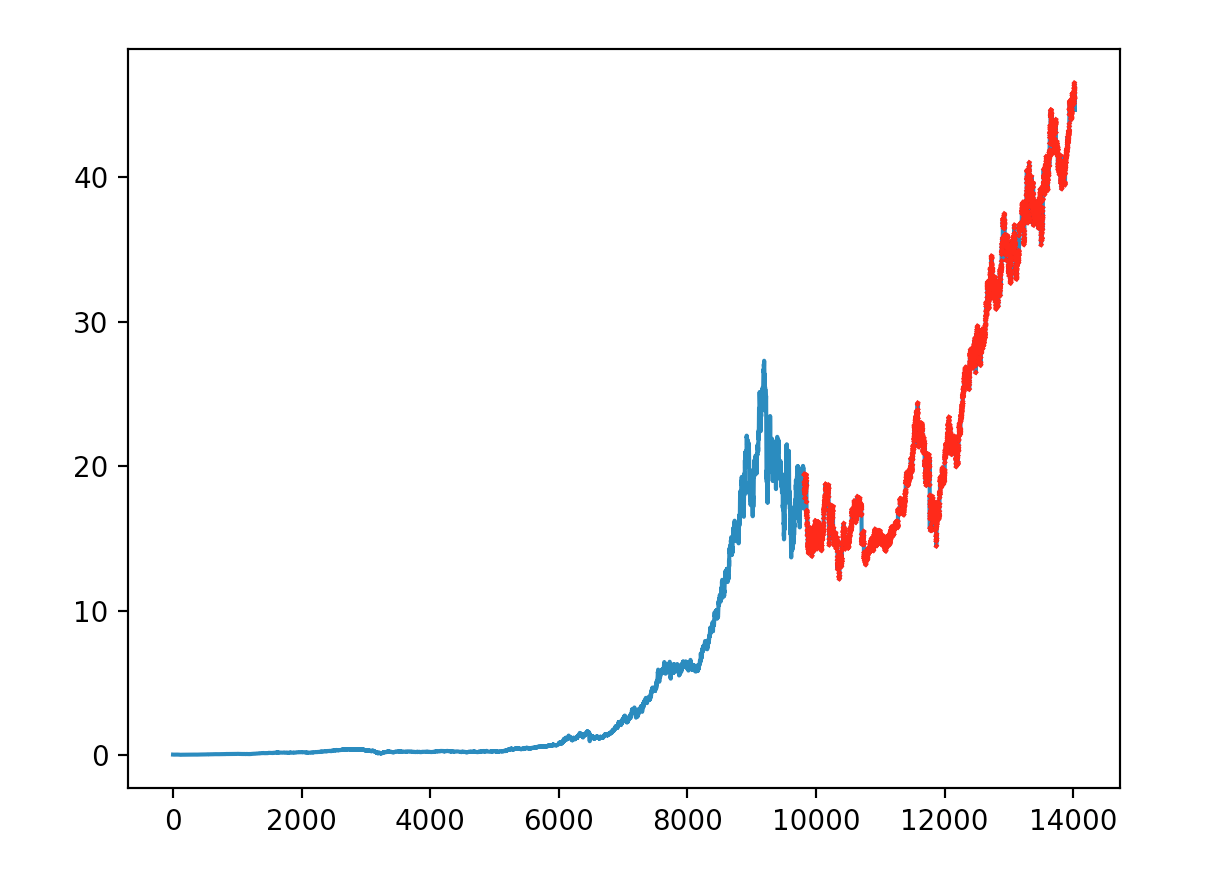
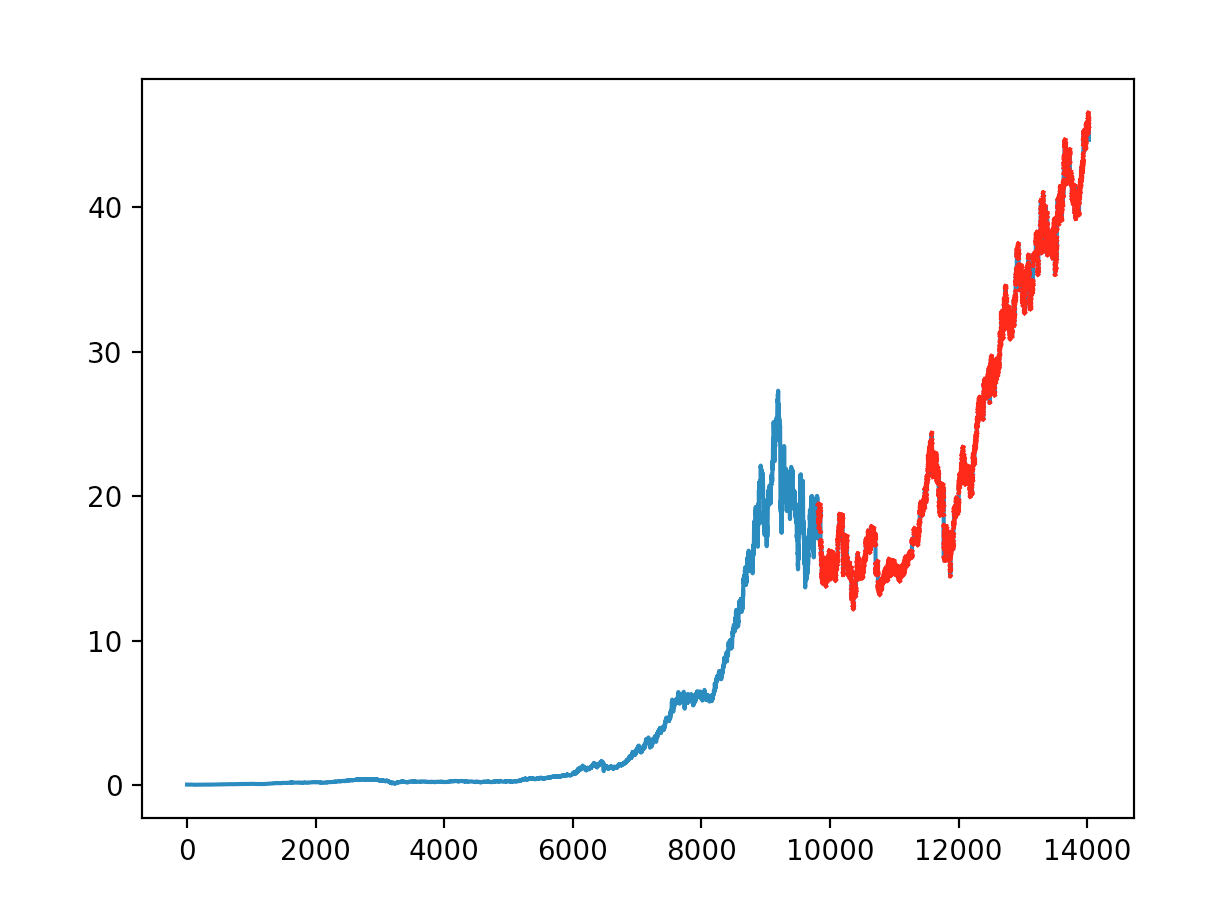
added another model multistep that beats persistance

Changed region(s): [[0.0612, 0.0929, 0.9174, 0.9599], [0.1223, 0.0619, 0.9479, 0.8979]]

diff --git a/LSTMs-stock-data/stocks-multistep-fitlstm.py b/LSTMs-stock-data/stocks-multistep-fitlstm.py
@@ -167,16 +167,27 @@ dataframe = dataframe.reindex(index=dataframe.index[::-1])
 series = dataframe.values
 series = series.astype('float32')
 
+#print(len(series))
+
 # configure
 n_lag = 1
 n_seq = 3
 n_test = 4209
 n_epochs = 3
 n_batch = 1
-n_neurons = 4
+n_neurons = 10
 
 # prepare data
 scaler, train, test = prepare_data(series, n_test, n_lag, n_seq)
+train_size = len(train)
+test_size = len(test)
+series_size = train_size + test_size
+'''print(train_size)
+print(len(series))
+print(n_test)
+print(len(test))'''
+'''print(test)
+print(train)'''
 
 # fit model
 model = fit_lstm(train, n_lag, n_seq, n_batch, n_epochs, n_neurons)
@@ -189,9 +200,74 @@ forecasts = inverse_transform(series, forecasts, scaler, n_test+2)
 actual = [row[n_lag:] for row in test]
 actual = inverse_transform(series, actual, scaler, n_test+2)
 
+'''print(actual)
+print(forecasts)'''
 # evaluate forecasts
 evaluate_forecasts(actual, forecasts, n_lag, n_seq)
 
+# walk-forward validations on the test data
+walk_for_1 = list()
+walk_for_2 = list()
+walk_for_3 = list()
+history = [x for x in series[0:train_size]]
+for i in range(len(test)):
+    # make prediction
+    walk_for_1.append(history[-1])
+    walk_for_2.append(history[-2])
+    walk_for_3.append(history[-3])
+    # observation
+    history.append(series[train_size + i])
+
+rmse_persistence_unnormalized_1 = sqrt(mean_squared_error(series[train_size:series_size,:], walk_for_1))
+print('Persistence Model (forecast 1) RMSE against test set (unnormalized): %f' % rmse_persistence_unnormalized_1)
+rmse_persistence_normalized_1 = sqrt(my_mean_squared_error(series[train_size:series_size,:], walk_for_1))
+print('Persistence Model (forecast 1) RMSE against test set (normalized): %f' % rmse_persistence_normalized_1)
+
+rmse_persistence_unnormalized_2 = sqrt(mean_squared_error(series[train_size:series_size,:], walk_for_2))
+print('Persistence Model (forecast 2) RMSE against test set (unnormalized): %f' % rmse_persistence_unnormalized_2)
+rmse_persistence_normalized_2 = sqrt(my_mean_squared_error(series[train_size:series_size,:], walk_for_2))
+print('Persistence Model (forecast 2) RMSE against test set (normalized): %f' % rmse_persistence_normalized_2)
+
+rmse_persistence_unnormalized_3 = sqrt(mean_squared_error(series[train_size:series_size,:], walk_for_3))
+print('Persistence Model (forecast 3) RMSE against test set (unnormalized): %f' % rmse_persistence_unnormalized_3)
+rmse_persistence_normalized_3 = sqrt(my_mean_squared_error(series[train_size:series_size,:], walk_for_3))
+print('Persistence Model (forecast 3) RMSE against test set (normalized): %f' % rmse_persistence_normalized_3)
+
+
+'''# make a persistence forecast
+def persistence(last_ob, n_seq):
+    return [last_ob for i in range(n_seq)]
+
+
+# evaluate the persistence model
+def make_forecasts_persistence(train, test, n_lag, n_seq):
+    forecasts = list()
+    for i in range(len(test)):
+        X, y = test[i, 0:n_lag], test[i, n_lag:]
+        # make forecast
+        forecast = persistence(X[-1], n_seq)
+        # store the forecast
+        forecasts.append(forecast)
+    return forecasts
+
+
+# evaluate the RMSE for each forecast time step
+def evaluate_forecasts_persistence(test, forecasts, n_lag, n_seq):
+    for i in range(n_seq):
+        actual = test[:, (n_lag + i)]
+        predicted = [forecast[i] for forecast in forecasts]
+        rmse = sqrt(mean_squared_error(actual, predicted))
+        print('Persistence t+%d RMSE: %f' % ((i + 1), rmse))
+
+# make forecasts for persistence model
+forecasts_persistence = make_forecasts_persistence(train, test, n_lag, n_seq)
+# evaluate forecasts for persistence model
+print("..........PERSISTENCE MODEL RESULTS............")
+evaluate_forecasts_persistence(test, forecasts, n_lag, n_seq)'''
+
 # plot forecasts
+# plot forecasts for lstm model
 plot_forecasts(series, forecasts, n_test+2)
+# plot forecasts for persistence model
+#plot_forecasts(series, forecasts_persistence, n_test+2)
 
